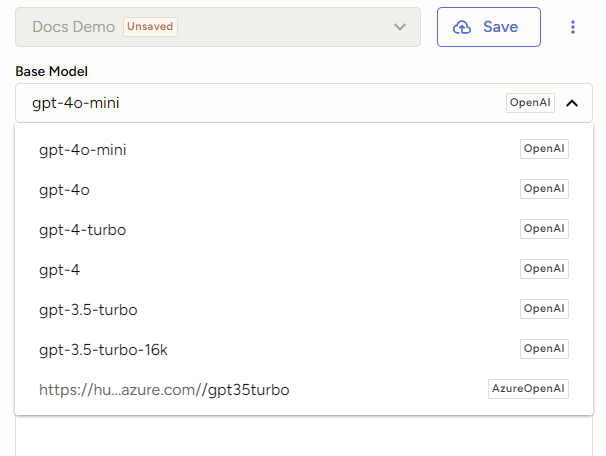
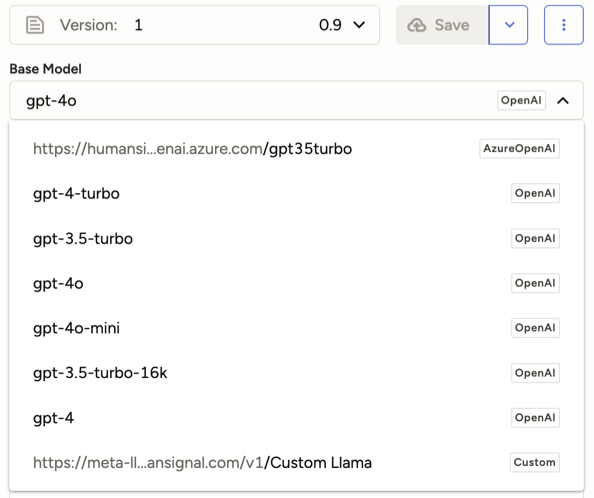
docs: DOC-255: Custom models for Prompts (#6529)

diff --git a/docs/source/guide/prompts_overview.md b/docs/source/guide/prompts_overview.md
@@ -46,7 +46,7 @@ By utilizing AI to handle the bulk of the annotation work, you can significantly
     * [Labeling guide](labeling)
     * [Define ground truth annotations for a project](quality#Define-ground-truth-annotations-for-a-project)
     * [Blog - What's a ground truth dataset?](https://humansignal.com/blog/what-s-a-ground-truth-dataset/)
-3. Go to the Prompts page and create a new Prompt. If you haven't already, you will also need to add an OpenAI API key.
+3. Go to the Prompts page and create a new Prompt. If you haven't already, you will also need to add an API key to connect to your model.
 
     * [Create a Prompt](prompts_create)
     * [Model provider keys](prompts_create#Model-provider-API-keys)
@@ -79,7 +79,7 @@ Additionally, this workflow provides a scalable solution for continuously expand
 
     * [Create a project](setup_project)
     * [Sync data from external storage](storage)
-2. Go to the Prompts page and create a new Prompt. If you haven't already, you will also need to add an OpenAI API key or an Azure OpenAI key.
+2. Go to the Prompts page and create a new Prompt. If you haven't already, you will also need to add an API key to connect to your model.
 
     * [Create a Prompt](prompts_create)
     * [Model provider keys](prompts_create#Model-provider-API-keys)
@@ -115,7 +115,7 @@ This feedback loop allows you to iteratively fine-tune your prompts, optimizing 
     * [Labeling guide](labeling)
     * [Define ground truth annotations for a project](quality#Define-ground-truth-annotations-for-a-project)
     * [Blog - What's a ground truth dataset?](https://humansignal.com/blog/what-s-a-ground-truth-dataset/)
-3. Go to the Prompts page and create a new Prompt. If you haven't already, you will also need to add an OpenAI API key.
+3. Go to the Prompts page and create a new Prompt. If you haven't already, you will also need to add an API key to connect to your model.
 
     * [Create a Prompt](prompts_create)
     * [Model provider keys](prompts_create#Model-provider-API-keys)
@@ -135,7 +135,7 @@ This feedback loop allows you to iteratively fine-tune your prompts, optimizing 
 | **Supported data types** | Text |
 | **Supported model types** | Text Classification <br>Named Entity Recognition (NER) |
 | **Class selection** | Multi-selection (the LLM can apply multiple labels per task)|
-| **Supported base models** | OpenAI gpt-3.5-turbo-16k <br>OpenAI gpt-3.5-turbo-instruct* <br>OpenAI gpt-4-turbo <br>OpenAI gpt-3.5-turbo <br>OpenAI gpt-4o <br>OpenAI gpt-4<br>[Azure OpenAI chat-based models](https://learn.microsoft.com/en-us/azure/ai-services/openai/concepts/models) |
+| **Supported base models** | OpenAI gpt-3.5-turbo-16k <br>OpenAI gpt-3.5-turbo-instruct* <br>OpenAI gpt-4-turbo <br>OpenAI gpt-3.5-turbo <br>OpenAI gpt-4o <br>OpenAI gpt-4<br>[Azure OpenAI chat-based models](https://learn.microsoft.com/en-us/azure/ai-services/openai/concepts/models)<br>[Custom LLM](prompts_create#Add-OpenAI-Azure-OpenAI-or-a-custom-model) |
 | **Text compatibility** | Task text must be utf-8 compatible |
 | **Task size** | Total size of each task can be no more than 1MB (approximately 200-500 pages of text) |
 | **Network access** | If you are using a firewall or restricting network access to your OpenAI models, you will need to allow the following IPs: <br>3.219.3.197 <br>34.237.73.3 <br>4.216.17.242 |

diff --git a/docs/source/guide/prompts_create.md b/docs/source/guide/prompts_create.md
@@ -31,6 +31,8 @@ Once added, you will have the option to select from the base models associated w
 
 To remove the key, click **API Keys** in the upper right of the Prompts page. You'll have the option to remove the key and add a new one. 
 
+### Add OpenAI, Azure OpenAI, or a custom model
+
 {% details <b>Use an OpenAI key</b> %}
 
 You can only have one OpenAI key per organization. For a list of the OpenAI models we support, see [Features, requirements, and constraints](prompts_overview#Features-requirements-and-constraints). 
@@ -74,6 +76,24 @@ When adding the key to Label Studio, you are asked for the following information
 You can find all this information in the **Details** section of the deployment in Azure OpenAI Studio. 
 
 ![Screenshot of the Azure deployment details](/images/prompts/azure_deployment.png)
+
+{% enddetails %}
+
+{% details <b>Use a custom LLM</b> %}
+
+You can use your own self-hosted and fine-tuned model as long as it meets the following criteria:
+
+* Your server must provide [JSON mode](https://python.useinstructor.com/concepts/patching/#json-mode) for the LLM. 
+* The server API must follow [OpenAI format](https://platform.openai.com/docs/api-reference/chat/create#chat-create-response_format). 
+
+Examples of compatible LLMs include [Ollama](https://ollama.com/) and [sglang](https://github.com/sgl-project/sglang?tab=readme-ov-file#openai-compatible-api). 
+
+To add a custom model, enter the following:
+
+* A name for the model. 
+* The endpoint URL for the model. For example, `https://my.openai.endpoint.com/v1`
+* An API key to access the model. (Optional)
+* An auth token to access the model. (Optional)
 
 {% enddetails %}
 
